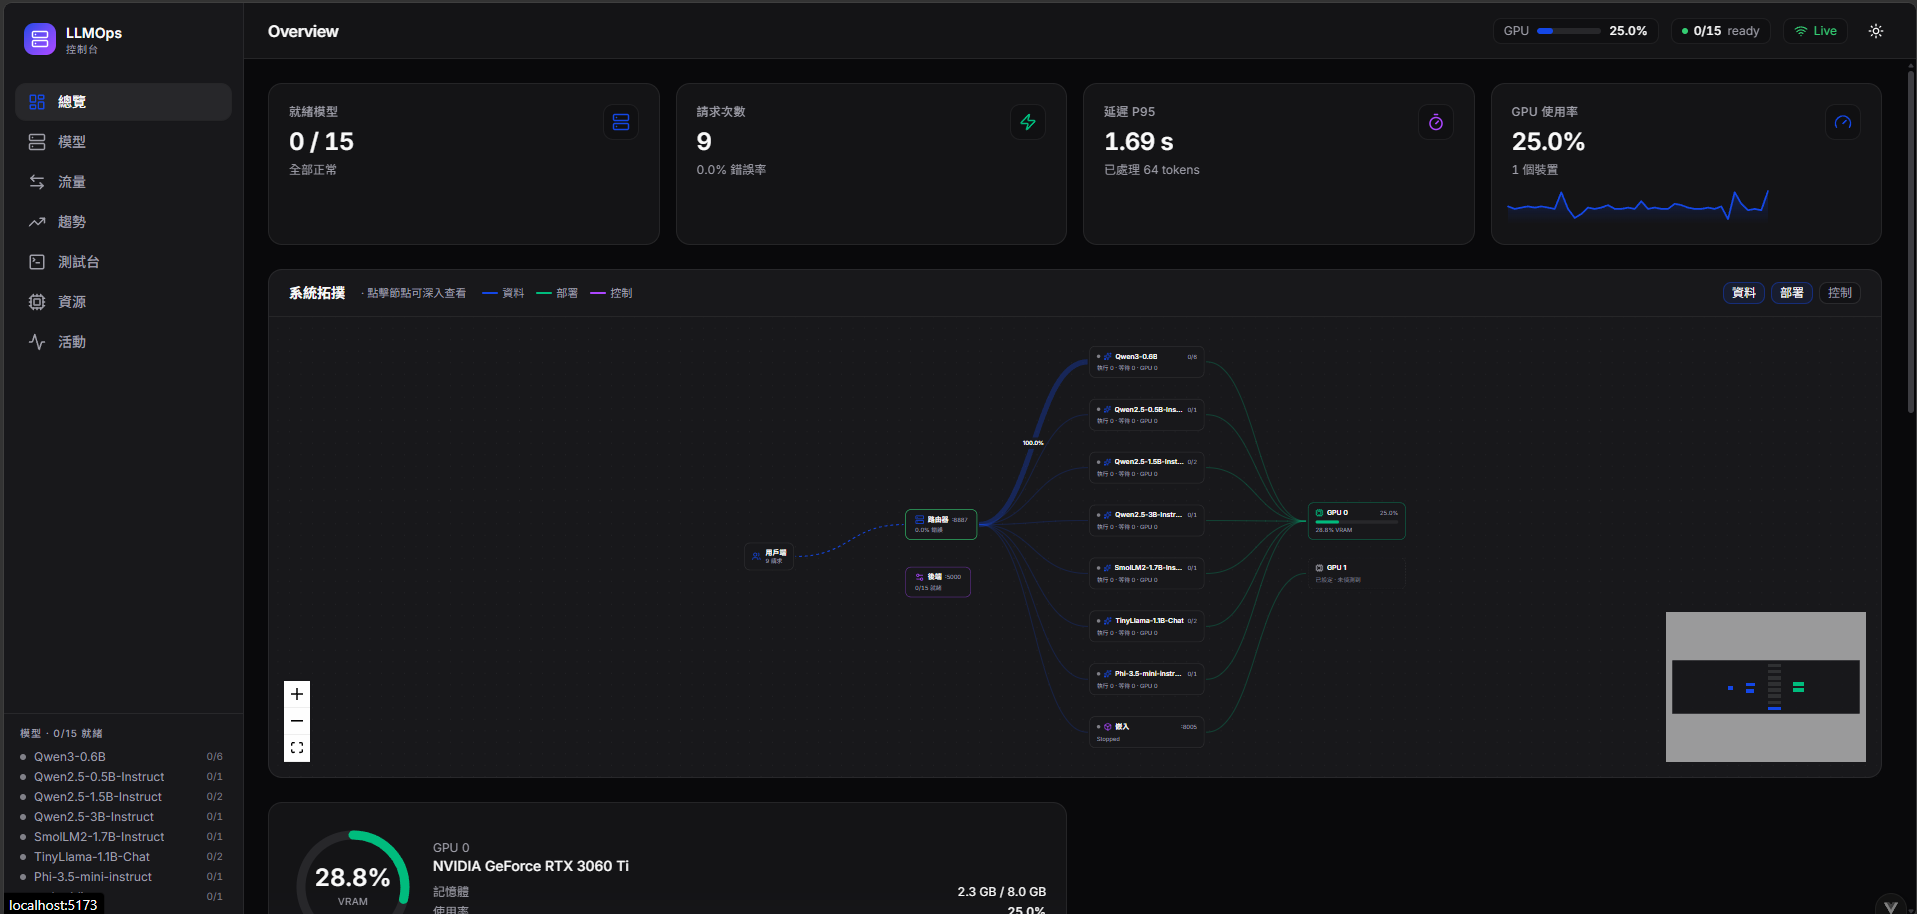
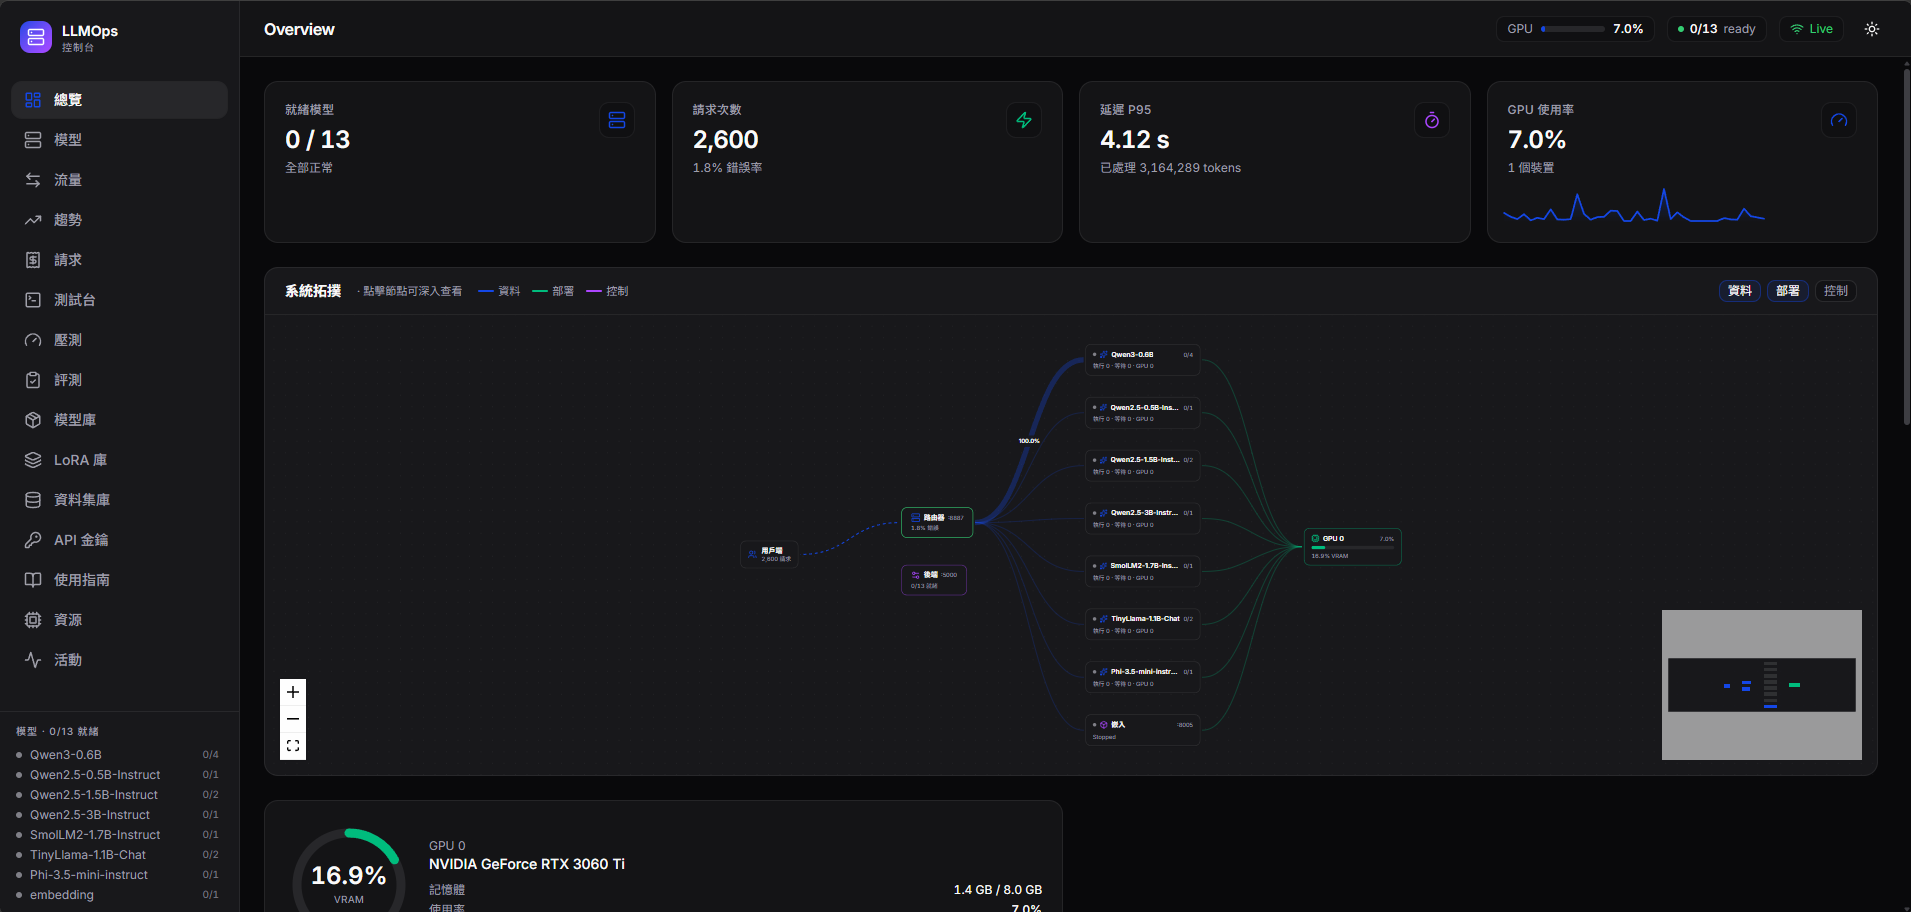
update: docs

diff --git a/README.md b/README.md
@@ -12,6 +12,9 @@
 
 ![Model Management](assets/image2.png)
 
+![Model Management](assets/image3.png)
+![Model Management](assets/image4.png)
+
 </div>
 
 ---

diff --git a/README_zh-CN.md b/README_zh-CN.md
@@ -9,6 +9,8 @@
 
 
 ![Model Management](assets/image2.png)
+![Model Management](assets/image3.png)
+![Model Management](assets/image4.png)
 
 </div>
 